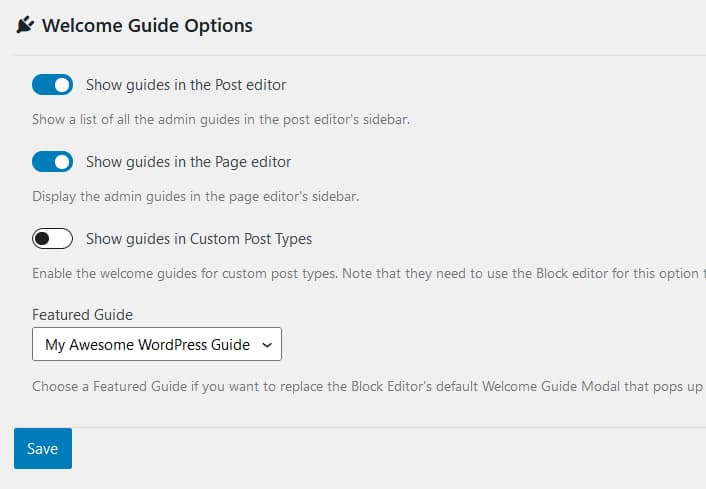
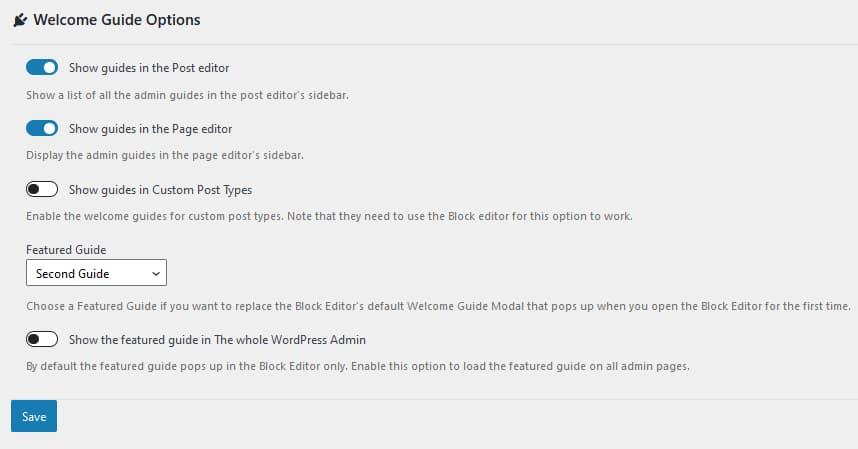
update content

diff --git a/post/adding-a-custom-welcome-guide-in-the-wordpress-admin/index.html b/post/adding-a-custom-welcome-guide-in-the-wordpress-admin/index.html
@@ -19,7 +19,7 @@
 "headline":"Add a Custom Welcome Guide in the WordPress Admin (With and Without a Plugin)",
 "description":"Create custom guides or edit the default welcome guide message that pops up when the user loads the Block Editor for the first time",
 "datePublished":"2021-09-15 10:06:13 &#43;0300 EEST",
-"wordCount": "1597",
+"wordCount": "1620",
 "publisher": {
 "@type": "Website",
 "name": "Yonkov.github.io"
@@ -195,7 +195,7 @@ var body=document.body;var switcher=document.getElementsByClassName('js-toggle')
 
 <h4 id="additional-options">Additional Options</h4>
 
-<p>You can also choose to show the guides for a particular post type and hide it on others. This is how the plugin&rsquo;s settings page looks like:</p>
+<p>You can also choose to show the guides for a particular post type and hide it on others. If you wish, you can also display a guide that will pop up on all admin pages (not just inside the Block editor). This is how the plugin&rsquo;s settings page looks like:</p>
 
 <p><img src="../../images/settings-page.jpg" alt="plugin's settings page" /></p>
 
